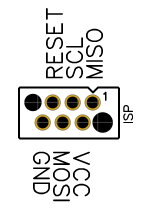
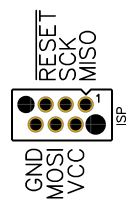
Beschriftung ISP Header analog zu Praktikum Lichtfolge (außer VISP) und Aufnahme des Basiscode in Dokumentation

Changed region(s): [[0.0584, 0.0284, 0.9343, 0.9668]]

diff --git a/docs/index.md b/docs/index.md
@@ -108,33 +108,19 @@ Für eine schnelle und unkomplizierte Programmierung wurde im WAGO Ausbildungsbe
 
 <img src="images/arduino_settings.png" alt="Einstellungen in der Arduino IDE" width="450" style="margin: 0 0 0 50px">
 
-### Programming Guide
-
-In diesem Kapitel gibt es eine kurze Einführung dazu, wie du **den Programmcode für die Platine ändern** kannst. Grundlagen für das Programmieren in C++ (Arduino) werden dabei vorausgesetzt. Bei YouTube gibt es ansonsten viele einsteigerfreundliche Tutorials dazu, suche einfach nach *Arduino Tutorial* und schon nach kurzer Zeit solltest du in der Lage sein die LEDs nach deinen Vorgaben anzusteuern.
-
 ## Inbetriebnahme
 
 Zuletzt musst Du die Batterien in das Batteriepack einlegen. Nutze hierzu einen kleinen Kreuzschraubendreher und öffne das Batteriepack. Achte auf die Richtung der Batterien! Schließe und verschraube das Batteriepack wieder. Die Platine ist nun betriebsbereit.
 
 <img src="images/battery_pack.jpg" width="180px" alt="Batteriepack" style="margin: 10px 0 0 60px"/>
 
-## Lust auf mehr?
+## Programming Guide
 
-Falls Du Lust auf mehr Technik hast, oder WAGO noch besser kennenlernen möchtest, dann mach doch ein Praktikum oder eine Ausbildung bei uns...
+In diesem Kapitel gibt es eine kurze Einführung dazu, wie du **den Programmcode für die Platine ändern** kannst. Grundlagen für das Programmieren in C++ (Arduino) werden dabei vorausgesetzt. Bei YouTube gibt es ansonsten viele einsteigerfreundliche Tutorials dazu, suche einfach nach *Arduino Tutorial* und schon nach kurzer Zeit solltest du in der Lage sein die LEDs nach deinen Vorgaben anzusteuern.
 
-Schau doch einfach mal auf unserer [Karriereseite](https://www.wago.com/de/ausbildung-studium) vorbei!
+### Programmcode
 
----
-
-⚠ TODO: Ab hier noch anpassen...
-
-### Programmcode für Spiel 4
-In der Funktion `playGame4()` kannst du deinen eigenen Code schreiben. Sie wird ausgeführt, wenn LED 4 leuchtet und Taster 4 („Start“) gedrückt wird. Aktuell wird hier nur die Funktion `errorAnimation()` aufgerufen, die kurz alle LEDs viermal aufleuchten lässt. Entferne diese Funktion testweise und ersetzte sie durch `startupAnimation()`. Anschließend erscheint beim Starten des Spiels die Animation, die auch beim Einschalten der Platine angezeigt wird.
-
-### LEDs ansteuern
-Die LEDs können über die Funktion `digitalWrite()` ein- oder ausgeschaltet werden. Die entsprechenden Pins sind in dem Array `leds` hinterlegt.
-
-Um beispielsweise LED 1 leuchten zu lassen, schreibe: `digitalWrite(leds[0], HIGH)`.
+In der Funktion `setup()` werden zunächst die vier Pins, an denen sich die LEDs befinden, als Ausgänge defininert. Die Routine `loop()` wird danach immer wieder ausgeführt. Hier kannst Du sehen, dass der Programmcode im wesentlichen aus vier sehr ähnlichen Blöcken besteht. In einem Block werden alle Ausgänge auf `HIGH` (LEDs sind dann aus) gesetzt. Einer der Ausgänge wird auf `LOW` gesetzt (LEDs sind an). Danach wird mit einem `delay(100)` für $100ms$ also $0,1s$ gewartet.
 
 {:.info}
 Den Schaltplan der Platine, um zu sehen welche Pins des Mikrocontrollers womit verbunden sind, findest du hier: **[Schaltplan Praktikum – Gib mir mal ’ne WAGO ➡](https://github.com/wago-enterprise-education/praktikum-gib-mir-mal-ne-wago/blob/main/pcb/SCH_praktikum-gib-mir-mal-ne-wago.pdf)**
@@ -142,28 +128,48 @@ Den Schaltplan der Platine, um zu sehen welche Pins des Mikrocontrollers womit v
 ### Basisprogramm
 
 ```C++
-void playGame4() {
-  startupAnimation();
-  updateButtons();
-  delay(50);
+uint8_t leds[] = {PIN_PA3, PIN_PA2, PIN_PA1, PIN_PA0};
 
-  while(!buttons[RESET].pressed()) { // Das Ausrufezeichen negiert den darauffolgenden Ausdruck
-    updateButtons();
-    
-    if(buttons[0].isPressed()) digitalWrite(leds[0], HIGH);
-    else digitalWrite(leds[0], LOW);
-
-    if(buttons[2].isPressed()) digitalWrite(leds[2], HIGH);
-    else digitalWrite(leds[2], LOW);
-
-    if(buttons[3].isPressed()) digitalWrite(leds[3], HIGH);
-    else digitalWrite(leds[3], LOW);
+void setup() {
+  // Set pins D0-D3 as outputs
+  for (int pin = 0; pin <= 3; pin++) {
+    pinMode(leds[pin], OUTPUT);
   }
-  errorAnimation();
-  delay(250);
-  startupAnimation();
 }
 
+void loop() {
+  // Muster 1: 0b00000111 -> D0, D1, D2 HIGH, D3 LOW
+  digitalWrite(0, HIGH);
+  digitalWrite(1, HIGH);
+  digitalWrite(2, HIGH);
+  digitalWrite(3, LOW);
+  delay(100);
+
+  // Muster 2: 0b00001011 -> D0, D1, D3 HIGH, D2 LOW
+  digitalWrite(0, HIGH);
+  digitalWrite(1, HIGH);
+  digitalWrite(2, LOW);
+  digitalWrite(3, HIGH);
+  delay(100);
+
+  // Muster 3: 0b00001101 -> D0, D2, D3 HIGH, D1 LOW
+  digitalWrite(0, HIGH);
+  digitalWrite(1, LOW);
+  digitalWrite(2, HIGH);
+  digitalWrite(3, HIGH);
+  delay(100);
+
+  // Muster 4: 0b00001110 -> D1, D2, D3 HIGH, D0 LOW
+  digitalWrite(0, LOW);
+  digitalWrite(1, HIGH);
+  digitalWrite(2, HIGH);
+  digitalWrite(3, HIGH);
+  delay(100);
+}
 ```
 
-Analysiere den Code und versuche herauszufinden, was die Funktion macht. **Lade anschließend das angepasste Projekt hoch** und überprüfe deine Ergebnisse.
+## Lust auf mehr?
+
+Falls Du Lust auf mehr Technik hast, oder WAGO noch besser kennenlernen möchtest, dann mach doch ein Praktikum oder eine Ausbildung bei uns...
+
+Schau doch einfach mal auf unserer [Karriereseite](https://www.wago.com/de/ausbildung-studium) vorbei!
